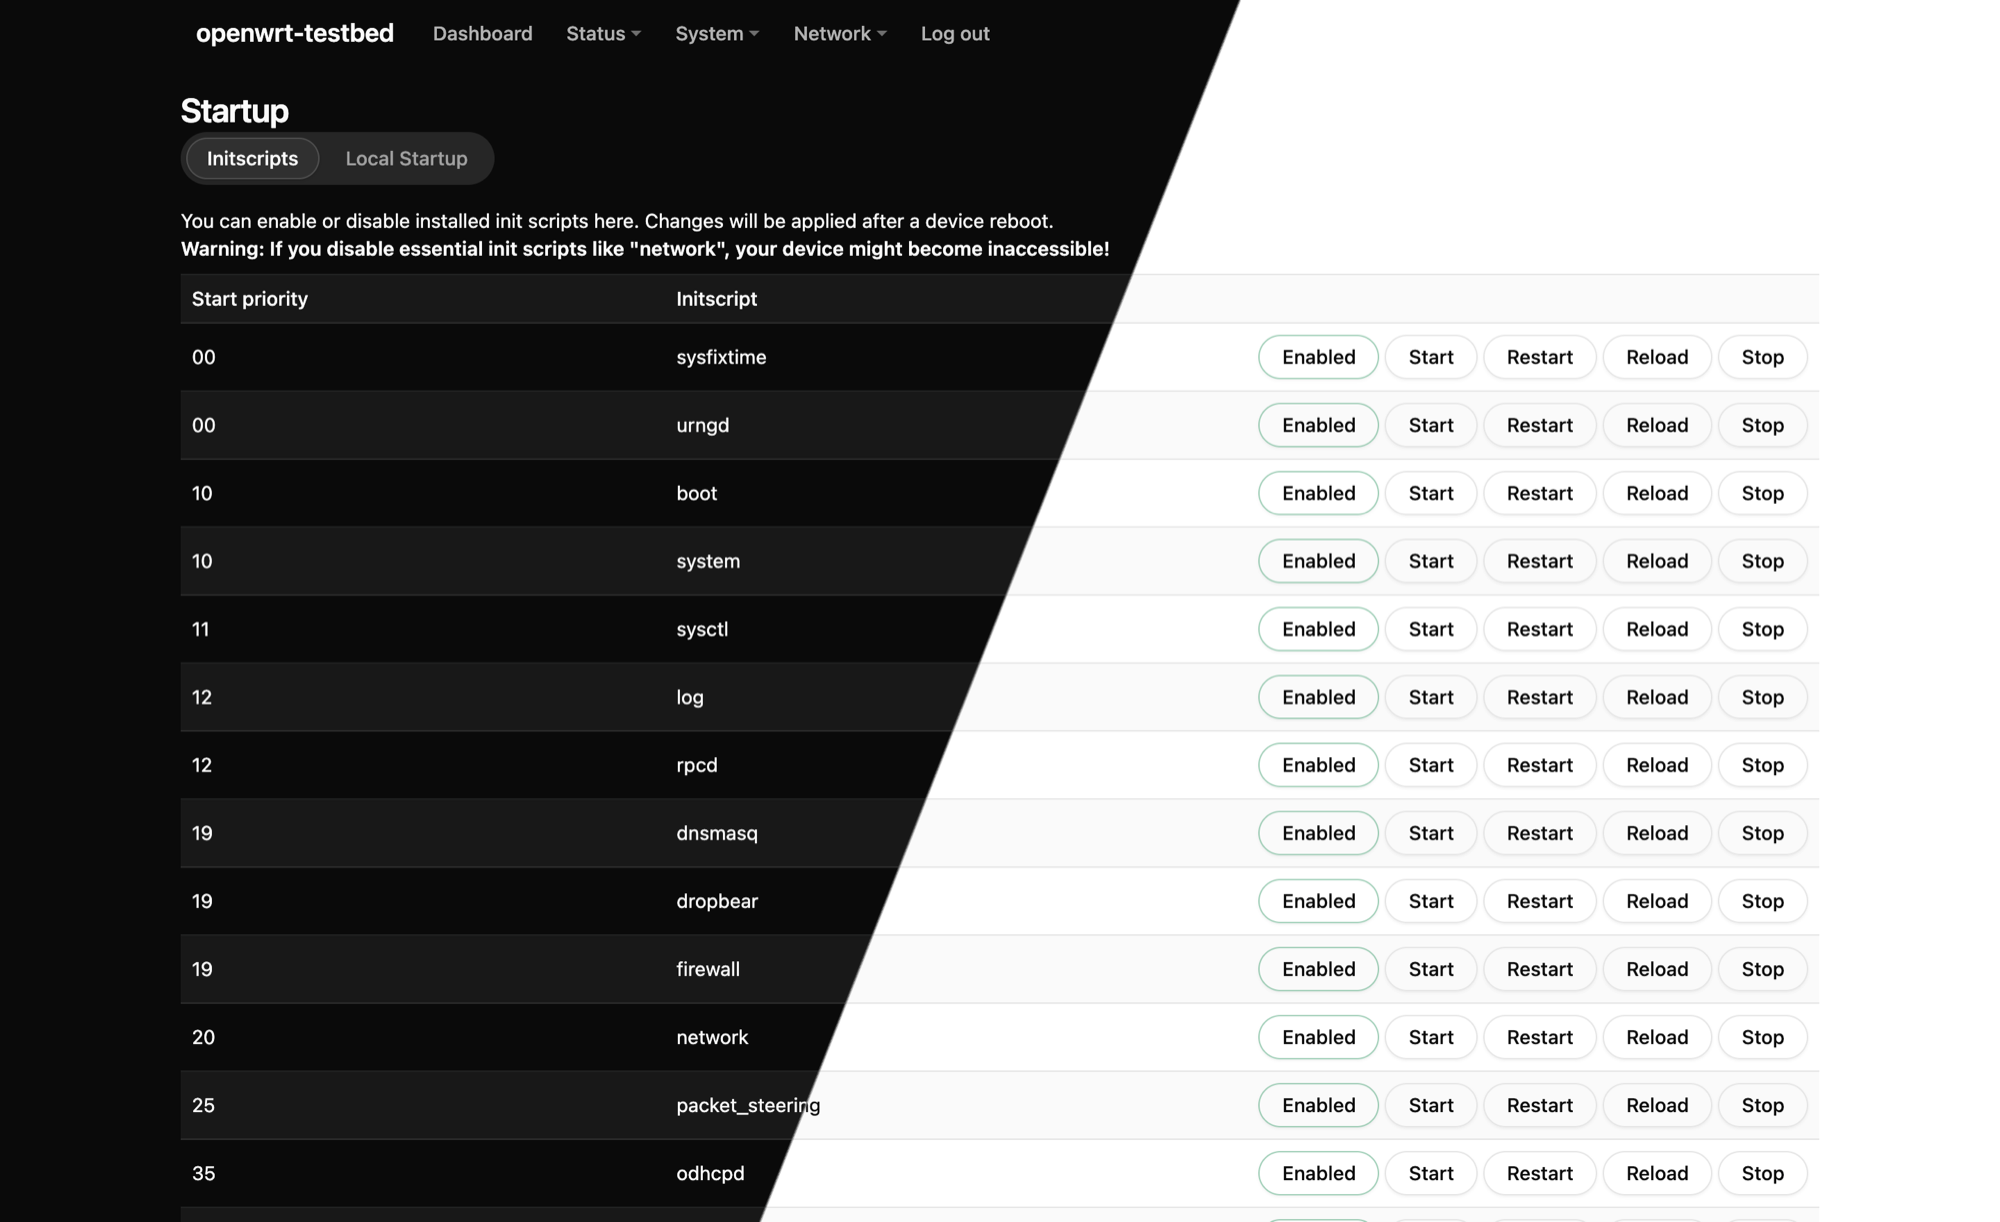
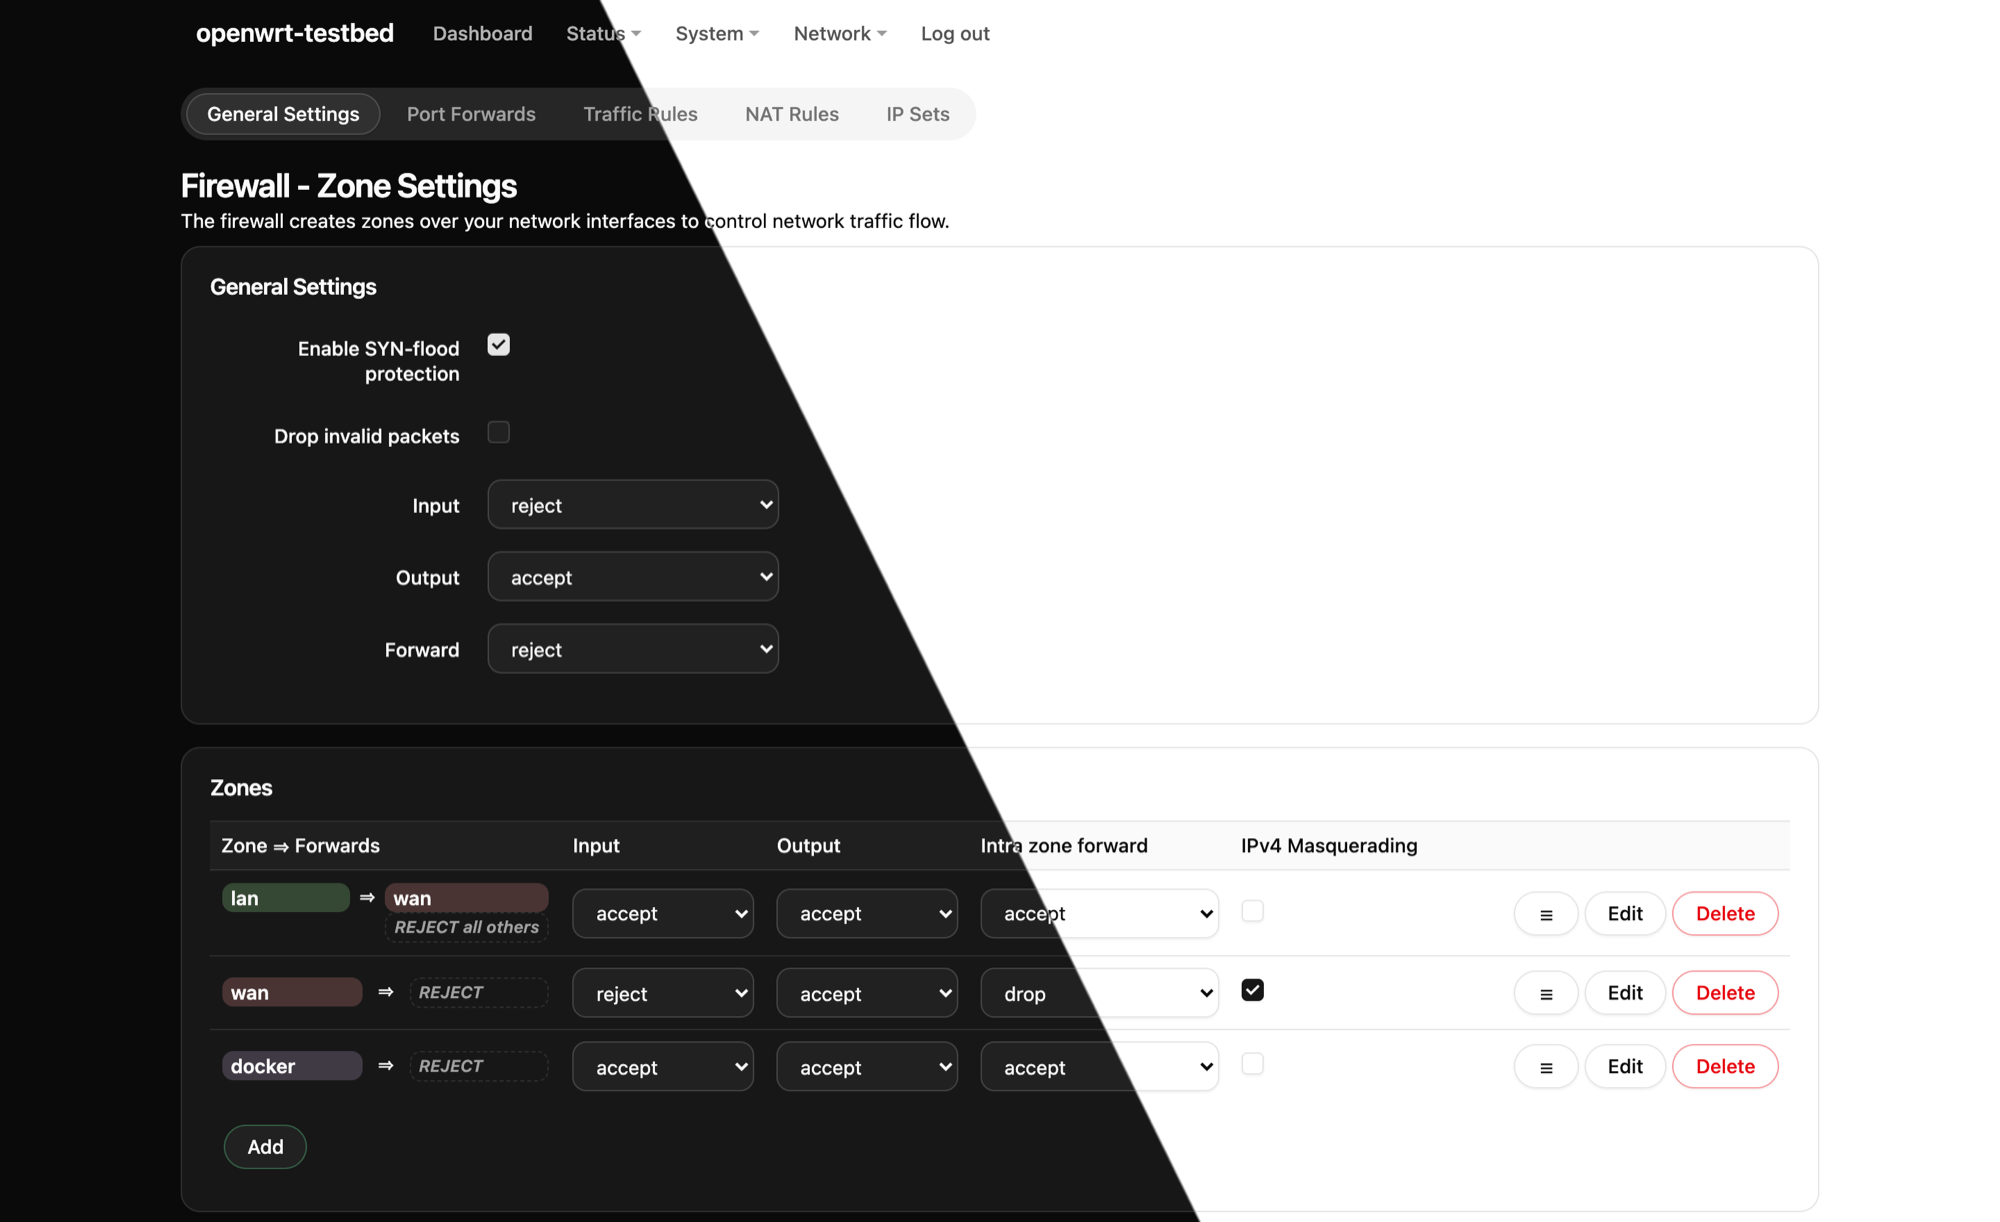
Slant the hero the other way, and put the firewall page back on it
The seam ran from the top right down to the bottom left, which left the header,
the tab strip and everything else LuCI keeps on the left entirely in the dark
half — the light theme showed up only as empty background. It now starts at 30%
across the top and leans right to 60% at the bottom, so it cuts through the menu
(between Status and System), through the tabs (between Traffic Rules and NAT
Rules) and through the zone table, and both schemes show the same widgets side
by side.

The page is the firewall's zone settings again: tabs, cards, both checkbox
states, native selects, the coloured zone badges LuCI paints inline, a table and
all three button kinds in one screen. Startup, which had been standing in, moved
into the gallery — a striped table with a row of pill buttons per line is worth
its own picture, just not the first one.

The seam is tunable now: scripts/hero.mjs takes --top and --bottom.

diff --git a/docs/screenshots.md b/docs/screenshots.md
@@ -5,14 +5,18 @@ away from anybody who wants to look at the theme without installing it. The
 palette is shadcn **neutral**; swapping `theme/globals.css` recolours every one
 of these.
 
+The firewall page is the one on the README's front page, dark and light joined
+along a diagonal — tabs, cards, both checkbox states, native selects, the
+coloured zone badges LuCI paints inline, a table and all three button kinds in a
+single screen.
+
 ## Dark
 
-### Firewall — zones
+### System — startup
 
-Tabs, cards, both checkbox states, native selects, the coloured zone badges LuCI
-paints inline, a table, and all three button kinds at once.
+A long striped table with a row of pill buttons on every line.
 
-![Firewall zone settings](img/zones.png)
+![Initscripts](img/startup.png)
 
 ### Network — interfaces
 

diff --git a/README.md b/README.md
@@ -9,7 +9,7 @@ nothing about the markup or the workflow changes, only how it looks.
 
 <p align="center">
   <a href="docs/screenshots.md"><b>More screenshots →</b></a><br>
-  <sub>the firewall, interfaces, the dashboard, a modal, the login screen, a phone</sub>
+  <sub>initscripts, interfaces, the dashboard, a modal, the login screen, a phone</sub>
 </p>
 
 ## Install
